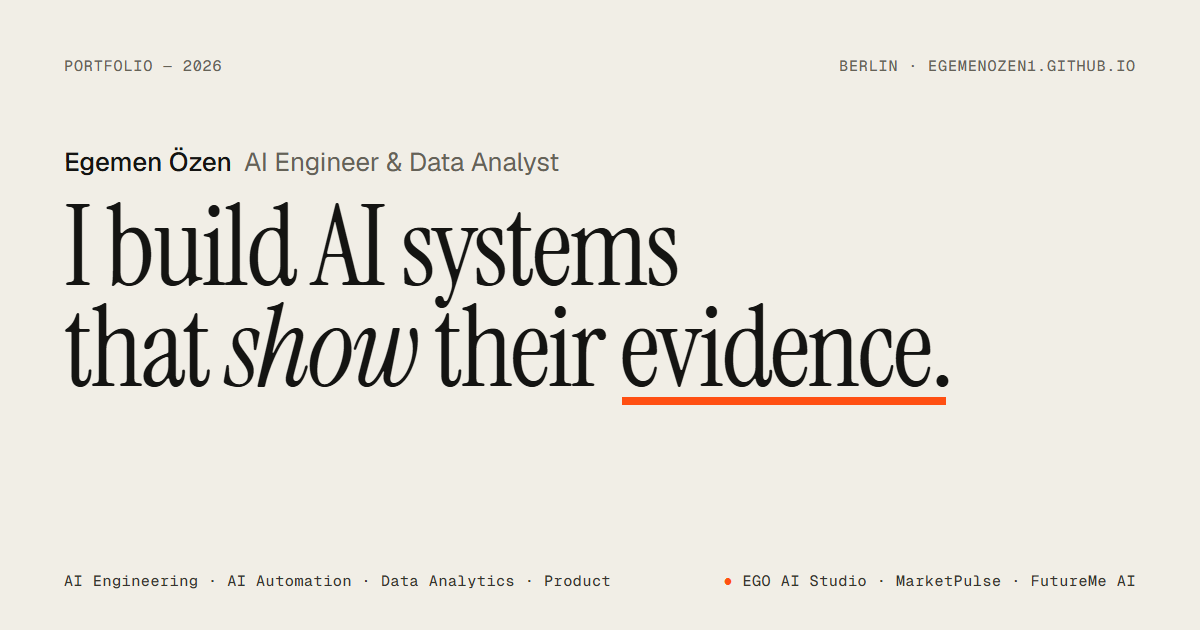
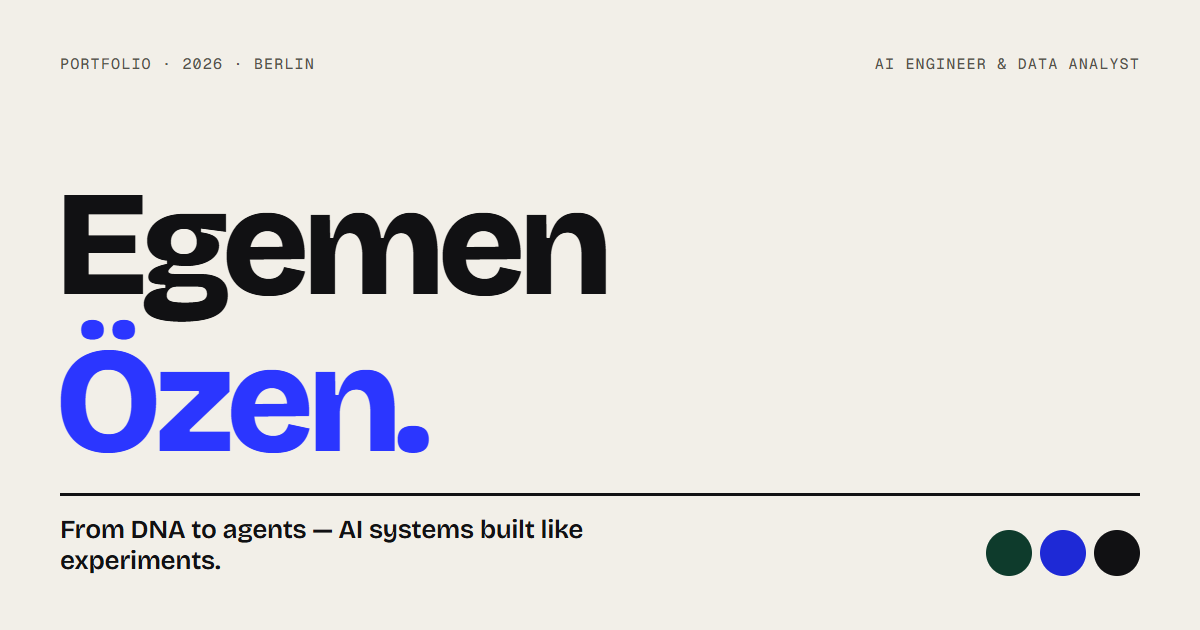
Concept C: matching social image and README

diff --git a/README.md b/README.md
@@ -12,9 +12,10 @@ npm run build && npm run check:dist
 ## Where things live
 - `src/content/projects/*.md` — every project, with its evidence ledger (`verified`, `live`, `by-design`, `private`, `limit`). Schema in `src/content.config.ts`.
 - `src/pages/index.astro` — homepage sections; `src/pages/projects/[id].astro` — case-study template.
-- `src/components/` — `SignalField` (hero canvas), `MissionReplay`, `ProvenanceInspector`, `FutureMeStage`, `HorizonExplorer`, `EvidenceLedger`.
+- `src/components/` — `StoryCanvas` (helix → TFT forecast lines → agent office), `HorizonExplorer`, `MissionReplay`, `ProvenanceInspector`, `FutureMeStage`, `EvidenceLedger`.
 - `src/data/` — committed TFT metrics from `egemenozen1/pytorch-forecasting-tft@26ee667` used by the horizon chart.
-- `src/styles/global.css` — the whole design system.
+- `src/styles/global.css` — the "From DNA to Agents" theme (chapter colours via registered custom properties); `components.css` — shared component styles.
+- Motion: GSAP ScrollTrigger for the story, stacked cards and toolkit marquee; Lenis for smooth wheel scrolling. All of it is off under reduced motion.
 
 No analytics, cookies or third-party requests: fonts are self-hosted through Fontsource.
 
